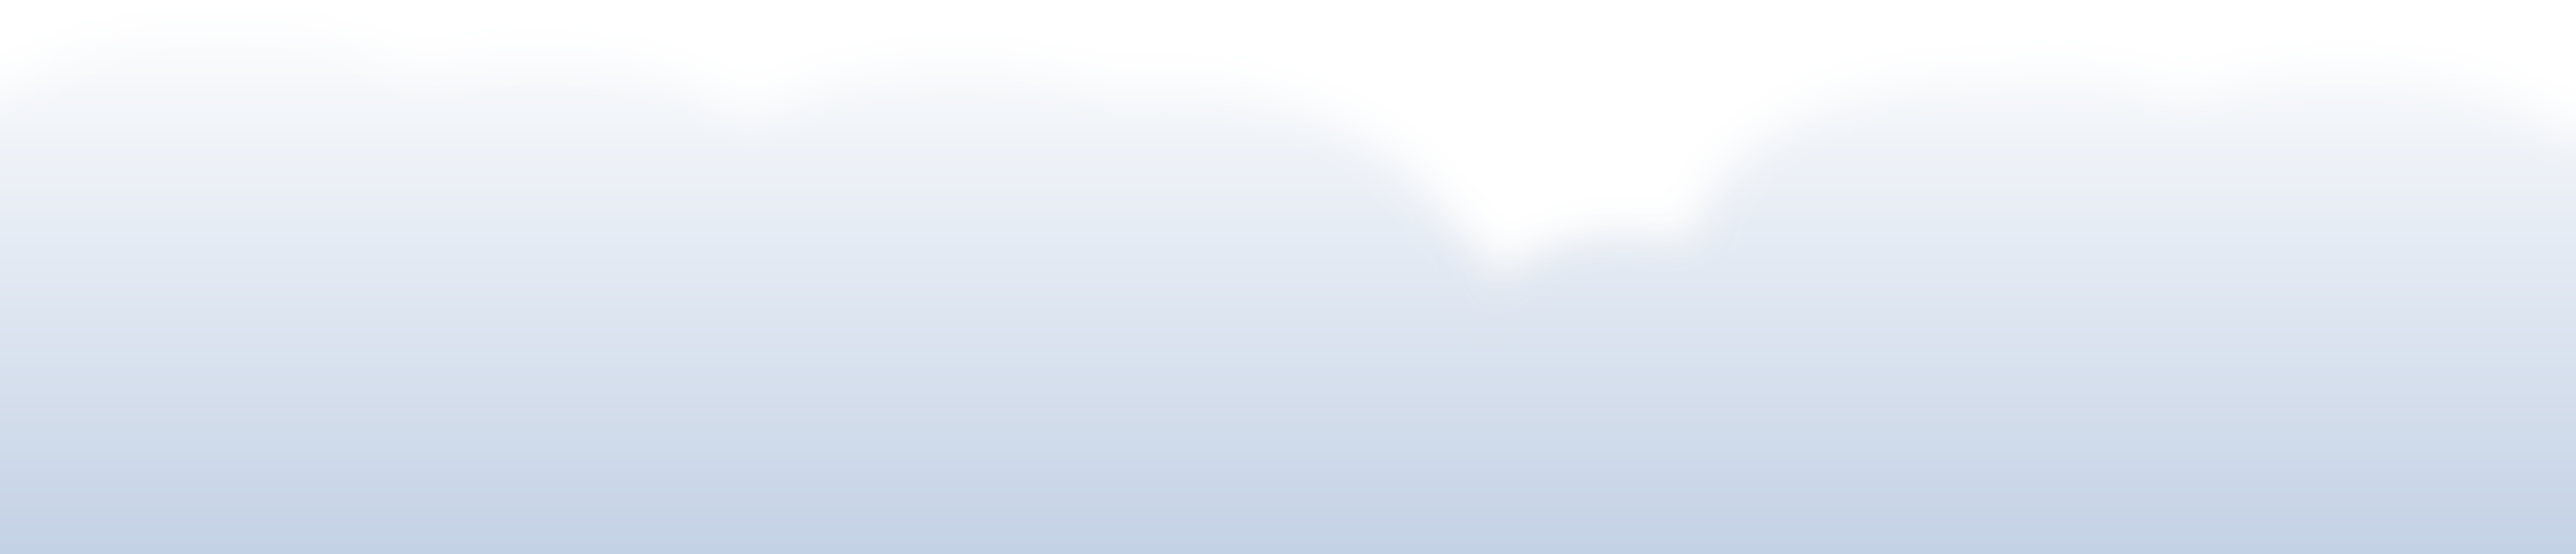
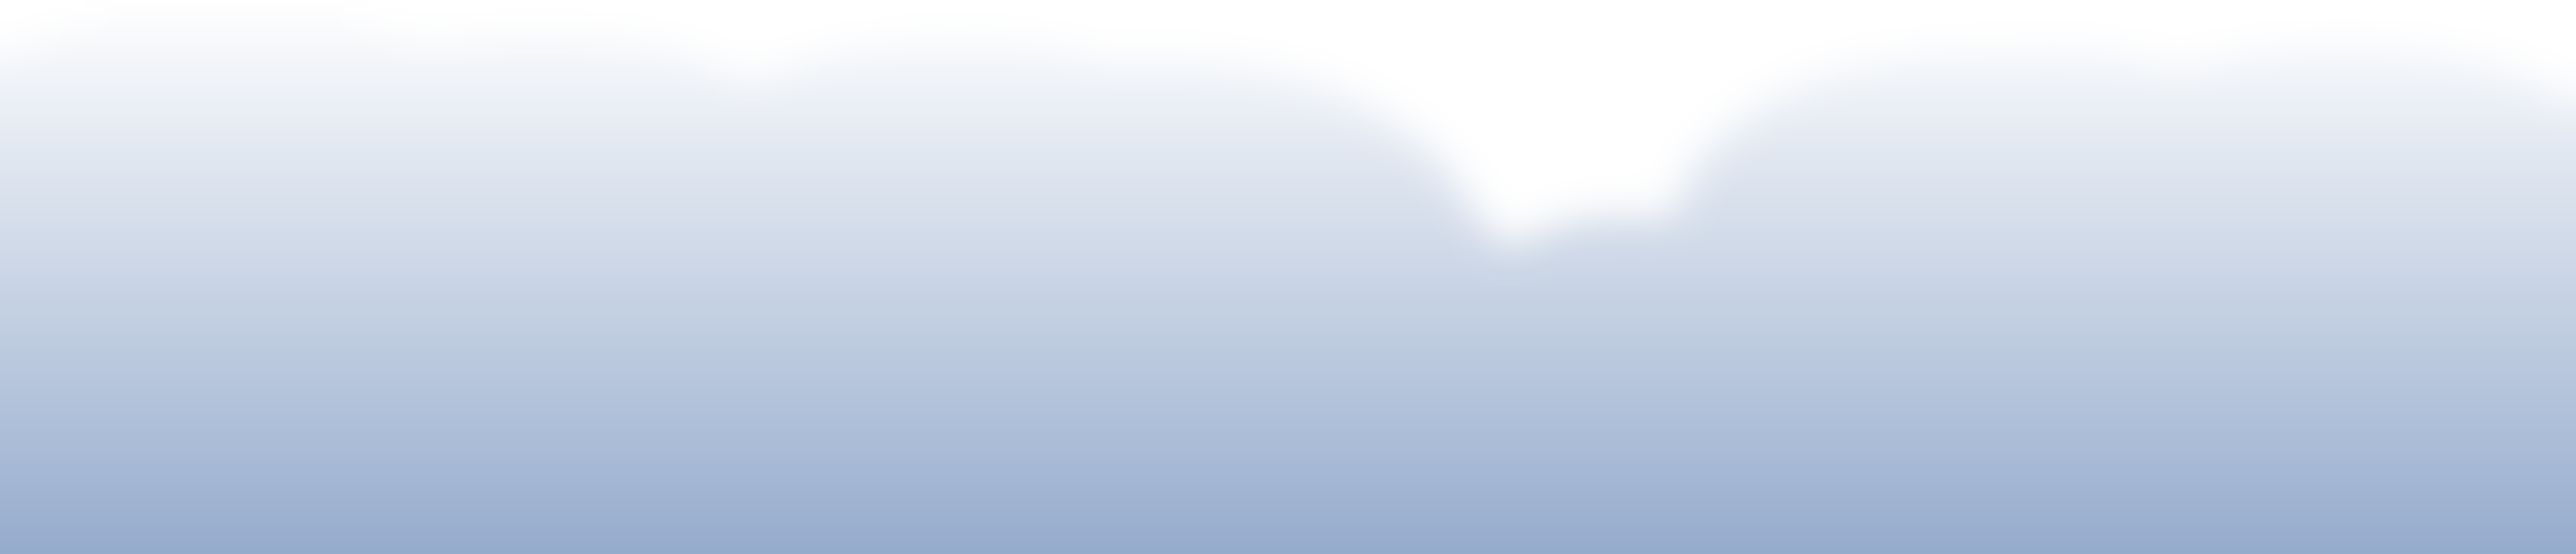
Reveal: stronger clouds, phone peeks from the start, shorter travel
Clouds deepened (undersides to #96acdd-range blue-grey with a stronger
ambient shadow) so they clearly read on white. Phone now starts already
peeking out of the cloud bank (30% offset instead of 55%) so the section is
never an empty white void, and the section shortened to 150vh.

diff --git a/index.html b/index.html
@@ -233,11 +233,11 @@
   /* ---------- cloud reveal finale ---------- */
   /* The section is tall; the stage sticks while you scroll through it, and JS
      maps scroll progress to the phone rising + clouds drifting apart. */
-  .reveal { position: relative; height: 165vh; }
+  .reveal { position: relative; height: 150vh; }
   .reveal-stage { position: sticky; top: 0; height: 100vh; overflow: hidden;
     display: flex; align-items: flex-end; justify-content: center; }
-  .reveal-phone { position: absolute; bottom: -14%; left: 50%;
-    width: min(360px, 76vw); transform: translate(-50%, 55%); will-change: transform; }
+  .reveal-phone { position: absolute; bottom: -10%; left: 50%;
+    width: min(380px, 78vw); transform: translate(-50%, 30%); will-change: transform; }
   .cloud { position: absolute; left: 50%; width: 128%; max-width: none;
     pointer-events: none; will-change: transform; }
   .c-far  { bottom: 8%;  transform: translateX(-50%); opacity: .9; }
@@ -616,9 +616,10 @@
       var r = sec.getBoundingClientRect();
       // progress 0 -> 1 across the section's scrollable travel
       var p = clamp(-r.top / (sec.offsetHeight - window.innerHeight));
-      // phone finishes rising by ~70% progress, then HOLDS (doesn't fly off)
+      // phone starts already peeking (30%) and finishes rising by ~70%
+      // progress, then HOLDS (doesn't fly off)
       var pe = ease(clamp(p / 0.72));
-      phone.style.transform = "translate(-50%," + (55 - pe * 55) + "%)";
+      phone.style.transform = "translate(-50%," + (30 - pe * 30) + "%)";
       // clouds drift gently apart + down as the phone emerges
       var e = ease(p);
       far.style.transform  = "translateX(" + (-50 - e * 6)  + "%) translateY(" + (e * 12) + "px)";
